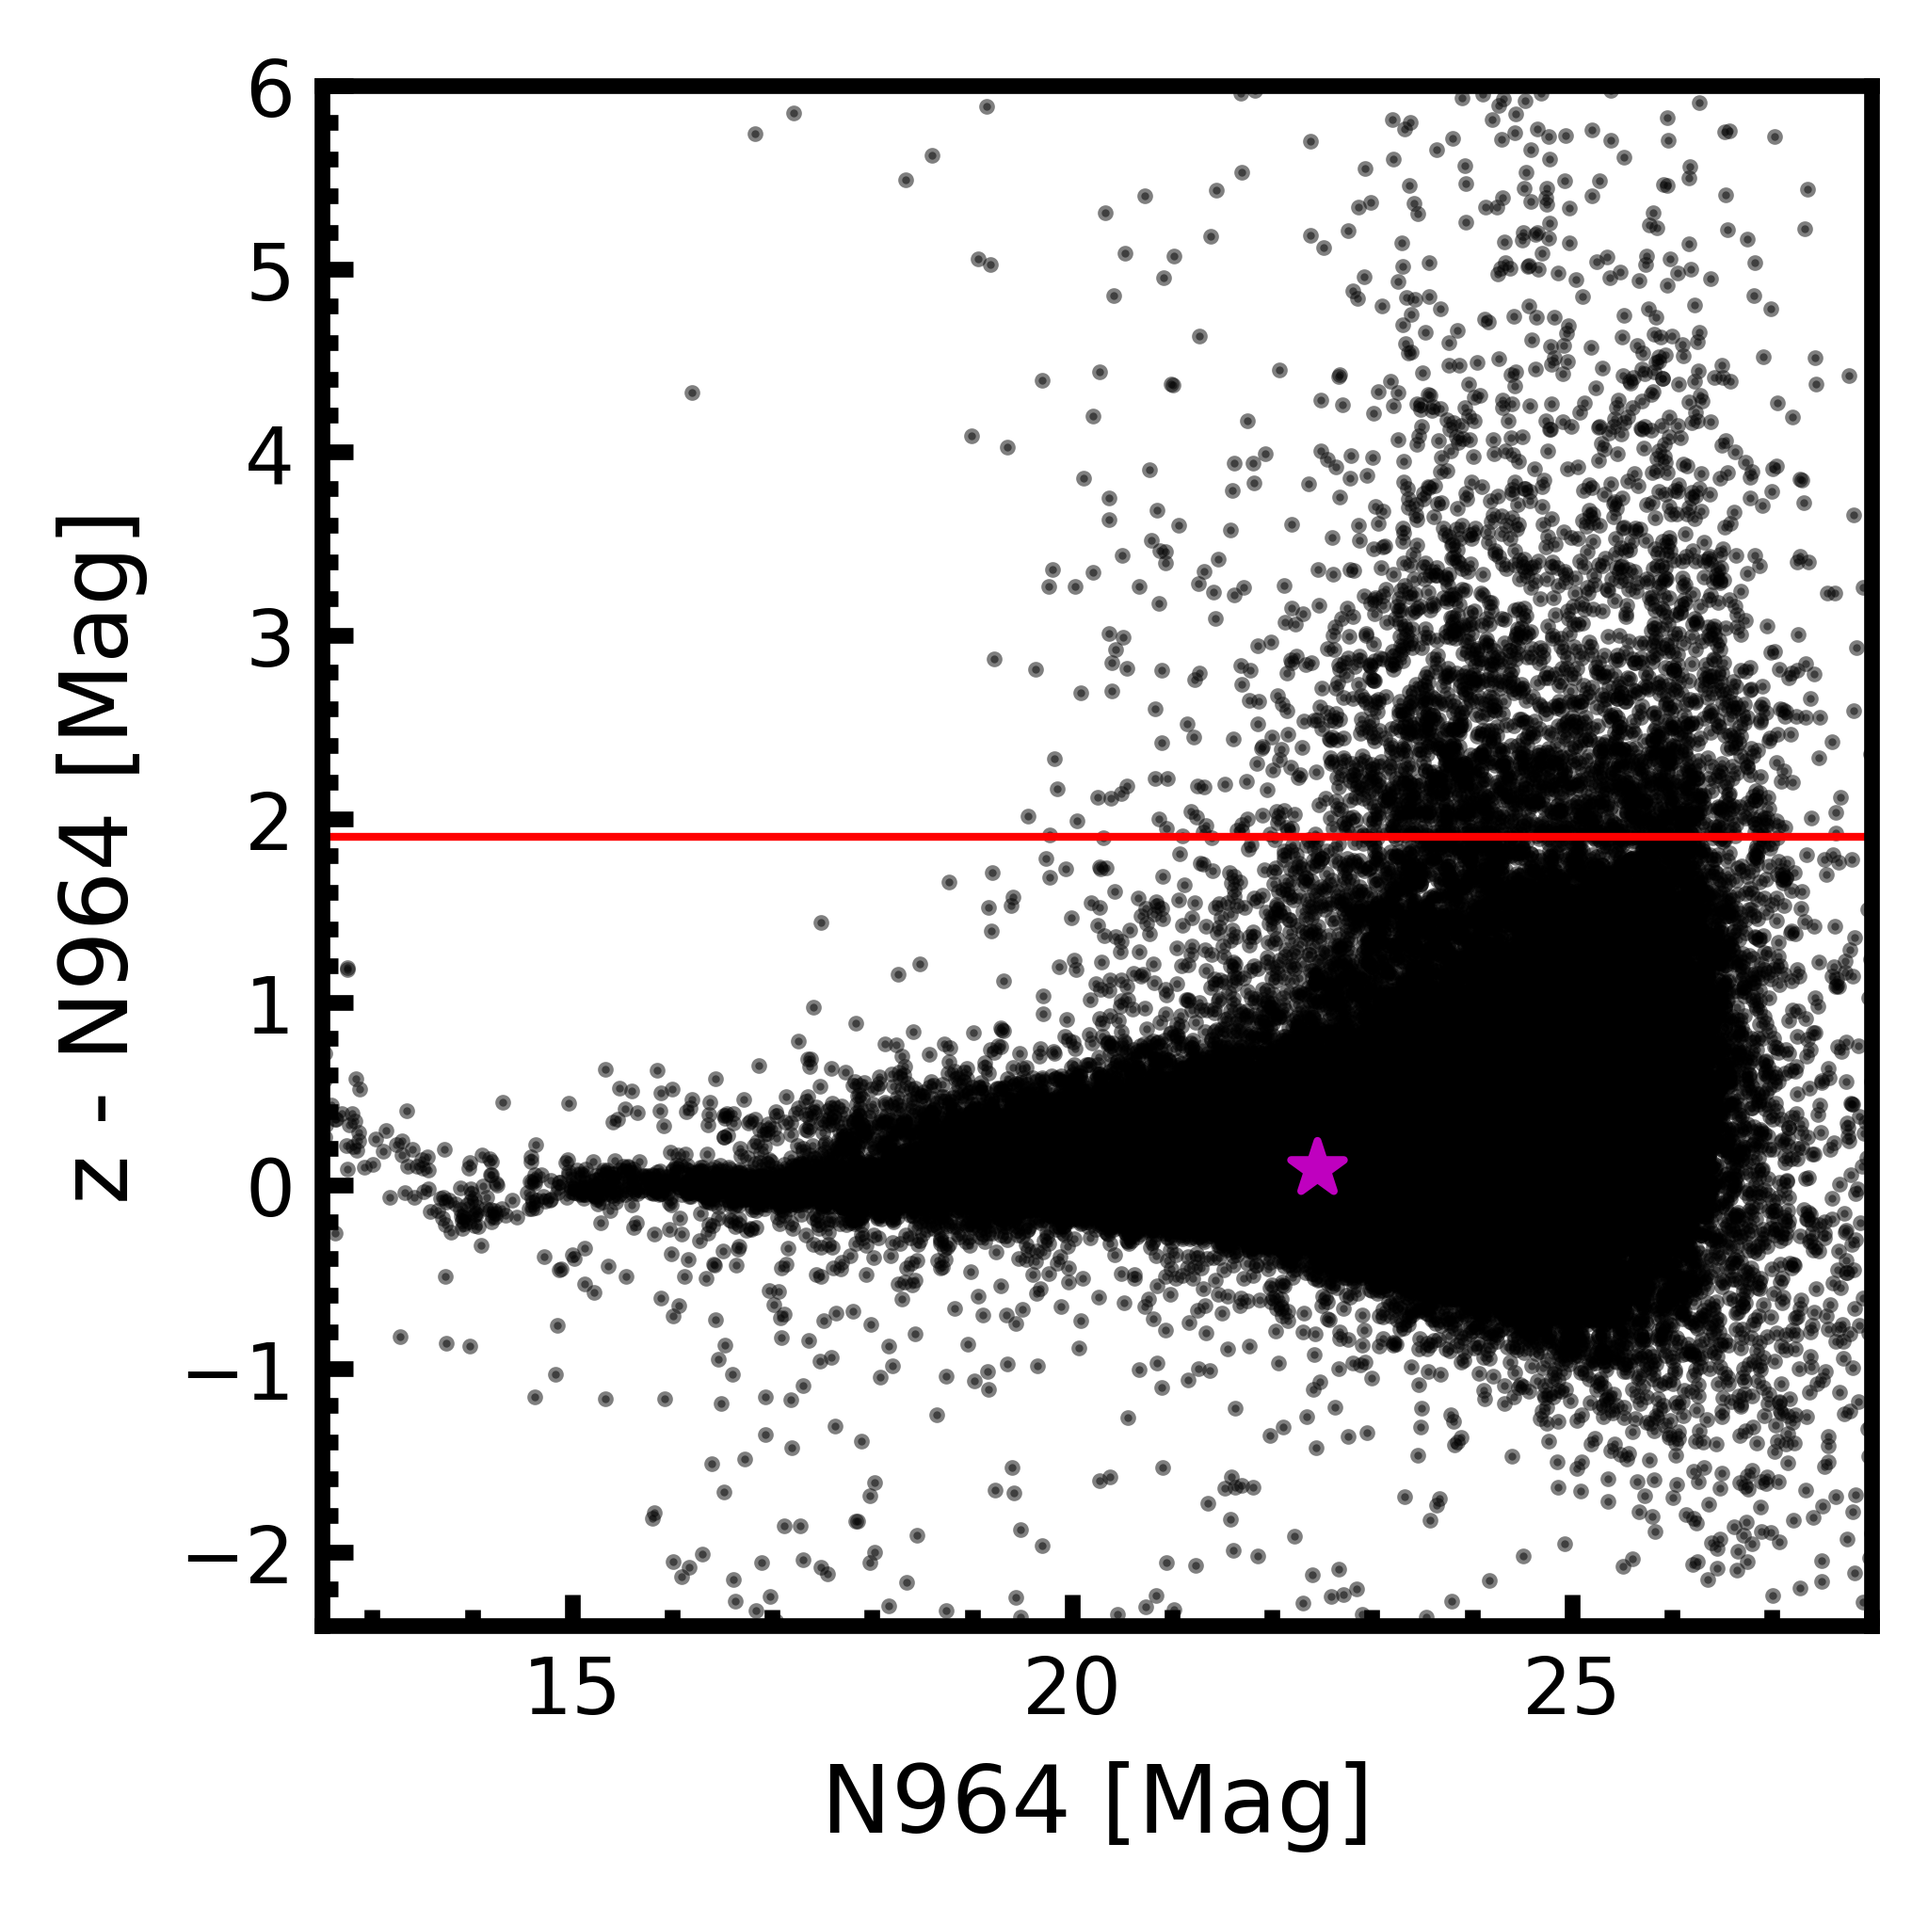
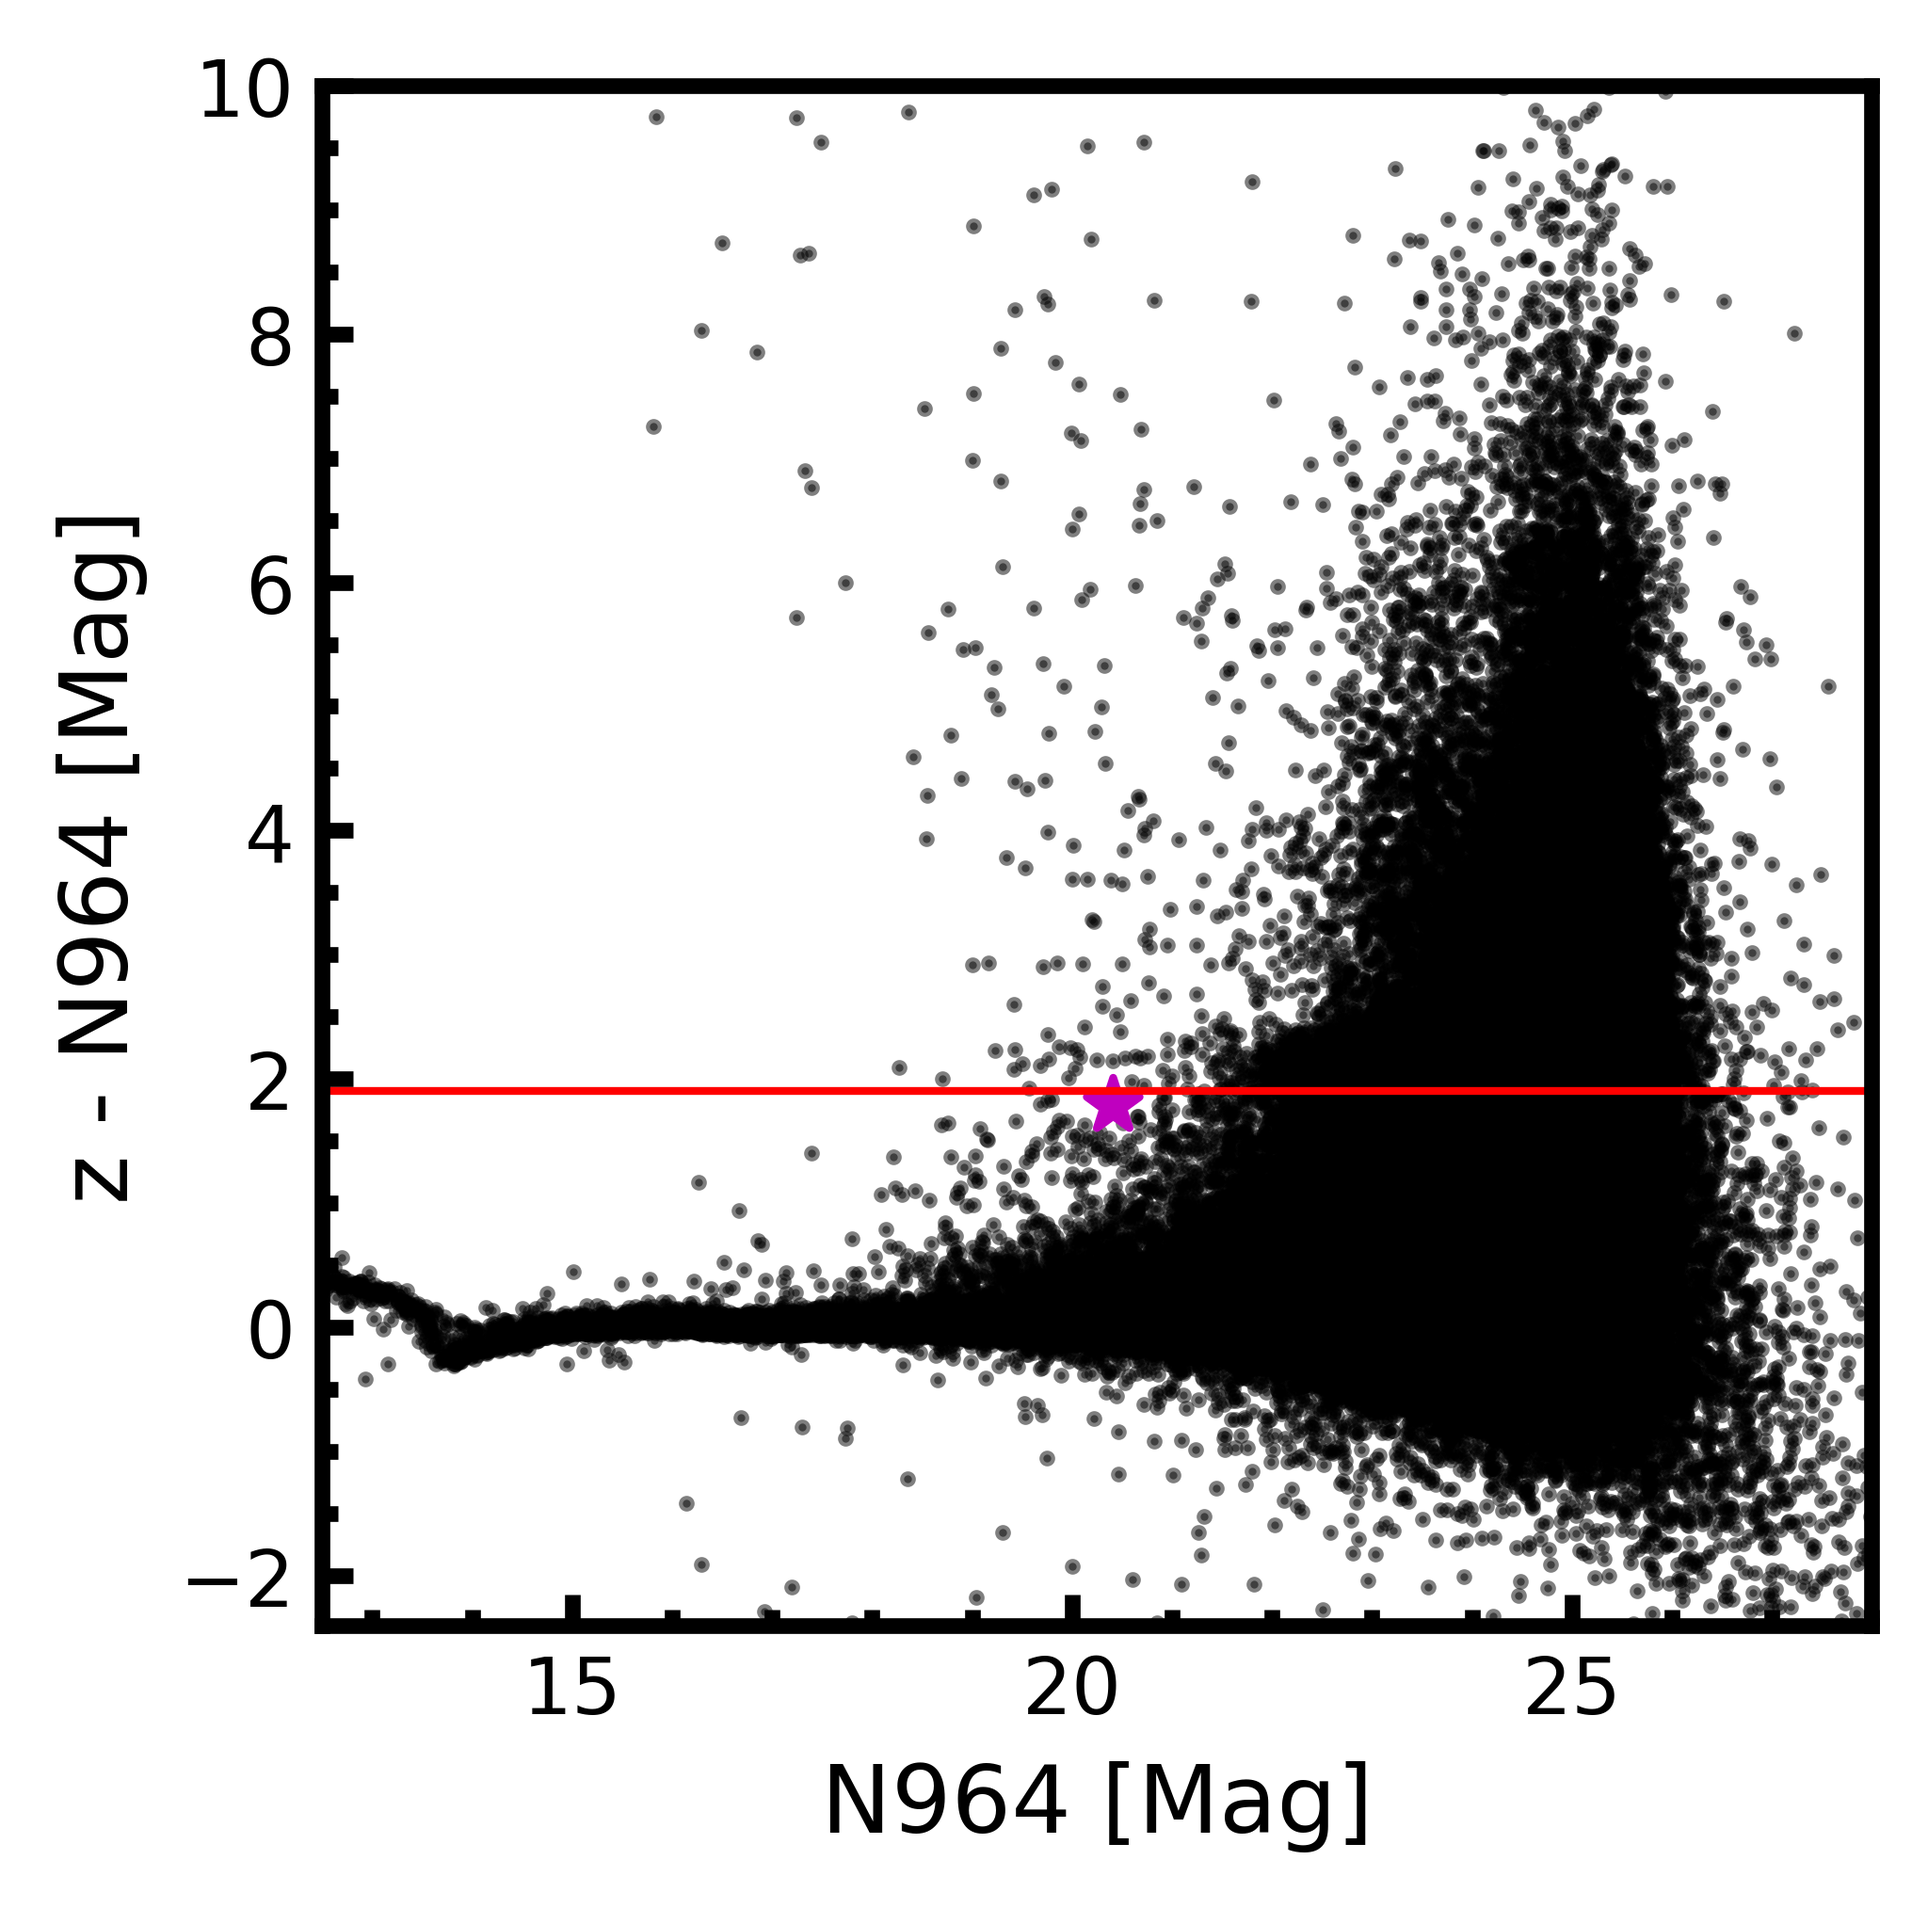
Updated Hu plot with correct mags for qso. Added output

diff --git a/hu_2019_plot.py b/hu_2019_plot.py
@@ -46,19 +46,30 @@ if __name__ == '__main__':
     idx, d2d, _ = c.match_to_catalog_sky(catalog)
 
     print(z_ra[idx], z_dec[idx])
+    print(d2d)
+    print(RA_QSO, DEC_QSO)
 
     plotting.start_plot('N964 [Mag]', 'z - N964 [Mag]')
     plt.scatter(n_mag, z_mag - n_mag, s=1, color='k', alpha=0.5)
     plt.scatter(n_mag[idx], z_mag[idx] - n_mag[idx], marker='*', s=50, color='m')
     plt.xlim(12.5, 28)
-    plt.ylim(-2.4,6)
+    plt.ylim(-2.4,10)
     plt.axhline(1.9, color='r', lw=1)
     plotting.end_plot('plots/hu_plot_z.png')
 
     plotting.start_plot('N964 [Mag]', 'i - N964 [Mag]')
     plt.scatter(n_mag, i_mag - n_mag, s=1, color='k', alpha=0.5)
     plt.scatter(n_mag[idx], i_mag[idx] - n_mag[idx], marker='*', s=50, color='m')
+    print('i: ', i_mag[idx])
+    print('z: ', z_mag[idx])
+    print('n964: ',n_mag[idx])
+    print('--------------')
+    print('i - n964: ', i_mag[idx] - n_mag[idx])
+    print('i - z: ', i_mag[idx] - z_mag[idx])
+    print('z - n964: ', z_mag[idx] - n_mag[idx])
+
+
     plt.xlim(12.5, 28)
-    plt.ylim(-2.4,6)
+    plt.ylim(-2.4,10)
     plt.axhline(0.8, color='r', lw=1)
     plotting.end_plot('plots/hu_plot_i.png')

diff --git a/convert_sexcat_into_region.py b/convert_sexcat_into_region.py
@@ -28,10 +28,10 @@ def convert_cat_to_reg(sextractor_catalog: str, outfile: str = 'sex_cat.reg'):
     positions = [convert_decimal_degrees_into_celestial(ra[i], dec[i]) for i in range(len(ra))]
     f = open(outfile, 'w')
     for pos in positions:
-        f.write(f'circle {pos} 1" \n')
+        f.write(f'circle {pos} 2.5" \n')
     f.close()
 
 
 if __name__ == '__main__':
-    INFILE = '../correct_stacks/N964/z.cat'
+    INFILE = '../correct_stacks/N964/n964.cat'
     convert_cat_to_reg(INFILE)

diff --git a/spectra_plot.py b/spectra_plot.py
@@ -39,4 +39,13 @@ if __name__ == '__main__':
     #Working out the colors.
     i_n = i_mag - narrow_mag
     i_z = i_mag - z_mag
-    n_z = narrow_mag - z_mag
+    z_n = z_mag - narrow_mag
+
+    #printing
+    print('i: ', i_mag)
+    print('z: ', z_mag)
+    print('n964: ', narrow_mag)
+    print('--------------')
+    print('i - n964: ', i_n)
+    print('i - z: ', i_z)
+    print('z - n964: ', z_n)
